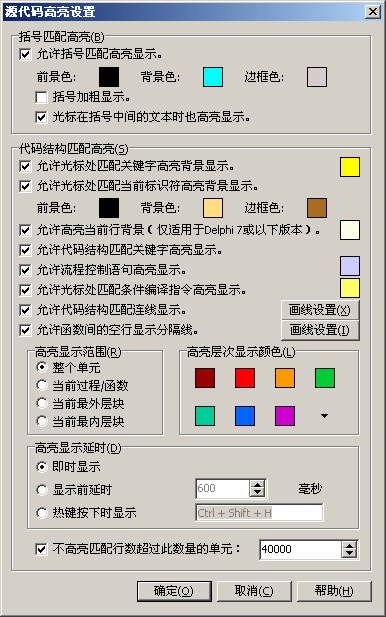
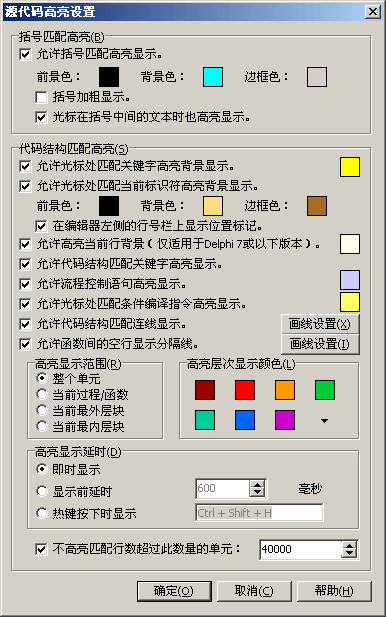
* [Help Files] Update Help Files and Snapshots.

Changed region(s): [[0.0311, 0.3079, 0.9326, 0.8622]]

diff --git a/Help/CnWizards_ENU/ideenhance/srchighlight.htm b/Help/CnWizards_ENU/ideenhance/srchighlight.htm
@@ -42,7 +42,7 @@ Brackets ( ), [ ], { } are supported. But { } only valid in C/C++. Code Structur
 <p class="text"><b>Enable Highlighting Matched Brackets</b>: Whether highlight matched brackets.</p>
   </li>
   <li>
-<p class="text"><b>Color Settings</b>: Set foreground, background and frame colors.</p>
+<p class="text"><b>Color Settings</b>: Set foreground, background and frame colors for matched brackets.</p>
   </li>
   <li>
 <p class="text"><b>Bracket Bold</b>: Whether use bold font to draw bracket.</p>
@@ -58,10 +58,16 @@ Brackets ( ), [ ], { } are supported. But { } only valid in C/C++. Code Structur
 <p class="text"><b>Enable Background Highlight Keyword Structure at Cursor.</b>: Whether Enable Background Highlight Keyword Structure at Cursor. If checked and cursor is at "begin", the background of "begin" and its corresponding "end" will be painted as highlight color, default is yellow and can be customized.</p>
   </li>
   <li>
-<p class="text"><b>Enable Background Highlight Current Identifier at Cursor.</b>: Whether Enable Background Highlight Current Identifier at Cursor. If checked and cursor is at a identifier, the background of all the same identifiers in current range will be painted as highlight color, default is yellow and can be customized.</p>
-  </li>
-<li>
 <p class="text"><b>Background Color</b>: The background color of Highlight Keyword Structure and Current Identifier at Cursor, defaultly Yellow.</p>
+  </li>
+  <li>
+<p class="text"><b>Enable Background Highlight Current Identifier at Cursor.</b>: Whether Enable Background Highlight Current Identifier at Cursor. If checked and cursor is at a identifier, the background of all the same identifiers in current range will be painted as highlight colors, which can be customized.</p>
+  </li>
+  <li>
+<p class="text"><b>Color Settings</b>: Set foreground, background and frame colors for Current Identifier at Cursor.</p>
+  </li>
+  <li>
+<p class="text"><b>Show Current Identifier Positions at Gutter</b>: If checked, the line position marks of current Identifiers will be paint on the Gutter at the left of Editor.</p>
   </li>
   <li>
 <p class="text"><b>Enable Background Highlight Current Line.</b>: Whether Enable Background Highlight Current Line at Cursor. If checked, the background of current line will be painted as highlight color, like BDS. The default background highlight color is coming from the Editor color settings and can be customized here.</p>
